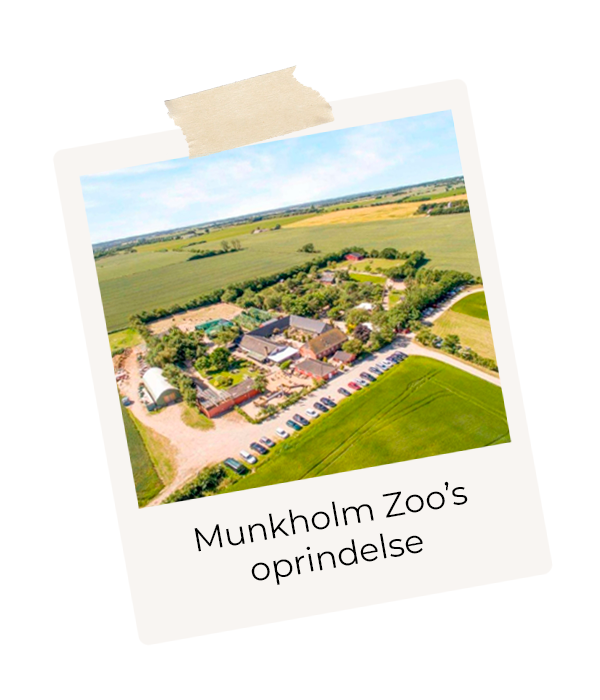
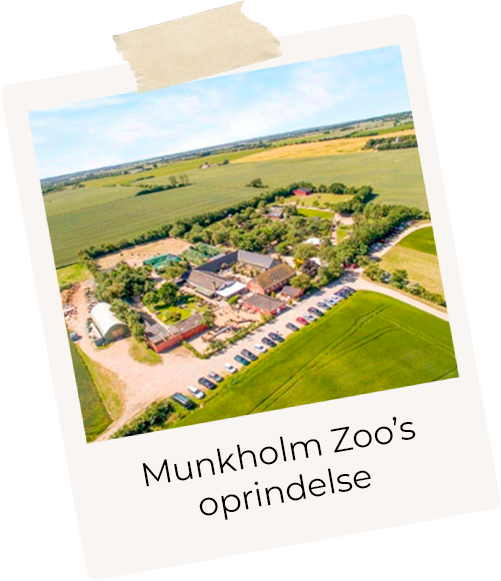
more changes + polaroid fix

diff --git a/eksamen/css/omos.css b/eksamen/css/omos.css
@@ -438,29 +438,36 @@ footer #flexkontakt {
     #munkholmbillede-ipad img {
        display: block;
         position: relative;
-       width: 100%;
+       width: 50%;
         height: auto;
     }
-    #munkholmbillede-ipad p{
-        
+    #munkholmbillede-ipad {
+        margin-left: 1%;
+        margin-right: 1%;
     }
    
 
     #munkholm_logo-ipad img {
         display: block;
         position: relative;
-        width: 100%;
+        width: 50%;
         height: auto;
        
         margin-right: 5%;
     }
     
+    #munkholm_logo-ipad {
+         margin-left: 1%;
+        margin-right: 1%;
+    }
    
+    #lars-ipad{
+        display: flex;
+    } 
 
     #lars-ipad video {
-        display: block;
         position: relative;
-        max-width: 80%;
+        max-width: 50%;
         margin-left: 5%;
         border: 20px solid #f7f5f2;
         border-radius: 5px;
@@ -472,12 +479,15 @@ footer #flexkontakt {
         font-family: 'Open Sans', sans-serif;
     }
 
-
+    #milo-ipad {
+        display: flex;
+    }
+    
     #milo-ipad video {
-        display: block;
         position: relative;
-        max-width: 80%;
-        margin-left: 60%;
+        max-width: 50%;
+        margin-left: 15%;
+        margin-right: 1%;
         border: 20px solid #f7f5f2;
         border-radius: 5px;
     }
@@ -486,7 +496,11 @@ footer #flexkontakt {
         width: 20%;
         text-align: center;
         font-family: 'Open Sans', sans-serif;
-        margin-left: 65%;
+       
+    }
+    
+    #pernille-ipad{
+        display: flex;
     }
 
     #pernille-ipad img {
@@ -530,9 +544,9 @@ footer #flexkontakt {
 
     #munkholmbillede-ipad img {
         display: block;
-        position: relative;
-        max-width: 80%;
-        height: auto;
+    position: relative;
+    width: 100%;
+    height: auto;
     }
 
 
@@ -543,19 +557,45 @@ footer #flexkontakt {
         height: auto;
        
     }
+    #lars-ipad{
+        display: flex;
+        margin: 2%;
+    }
+    
+    #lars-ipad p{
+        position: relative;
+        margin-top: 8%;
+    }
 
     #lars-ipad video {
-        display: block;
         position: relative;
         max-width: 80%;
         margin-left: 5%;
     }
 
-    #milo-ipad video {
-        display: block;
+    
+    #milo-ipad{
+        display: flex;
+        margin: 2%;
+    }
+     
+    #milo-ipad p{
         position: relative;
-        max-width: 80%;
-        height: auto;    
+        margin-top: 8%;
+        z-index: 10;
+       
+    }
+    
+    
+    #milo-ipad video {
+        position: relative;
+        max-width: 50%;
+        margin-right: 1%;
+        border: 20px solid #f7f5f2;
+        border-radius: 5px;  
+       
+        z-index: 0;
+             right: auto;
     }
 
     #pernille-ipad img {
@@ -564,6 +604,13 @@ footer #flexkontakt {
         max-width: 80%;
         margin-left: 2%;
     }
+
+     #pernille-ipad p {
+        width: 50%;
+        text-align: center;
+        font-family: 'Open Sans', sans-serif;
+         margin-top: 5%;
+}
 
 
 

diff --git a/eksamen/omos.html b/eksamen/omos.html
@@ -58,7 +58,7 @@
         </div>
 
         <div id="munkholm_logo">
-            <img src="images/munkholm_orange_logo.png" alt="munkholm logo">
+            <img src="images/munkholm__orange_logo.png" alt="munkholm logo">
 
             <h3>Nye ejere med</h3>
             <h3>menneskelige værdier</h3>
@@ -152,11 +152,13 @@
         </div>
 
         <div id="milo-ipad">
+            
+              <p>”Jeg har altid drømt om at være dyrepasser, dyr er min passion, jeg elsker at være sammen med dem, og jeg elsker at give andre gode oplevelser med vores dyr” </p>
 
             <video controls autoplay loop src="video/milo_polaroid.mp4" width="500px" height="350px"></video>
 
 
-            <p>”Jeg har altid drømt om at være dyrepasser, dyr er min passion, jeg elsker at være sammen med dem, og jeg elsker at give andre gode oplevelser med vores dyr” </p>
+          
         </div>
 
         <div id="pernille-ipad">
